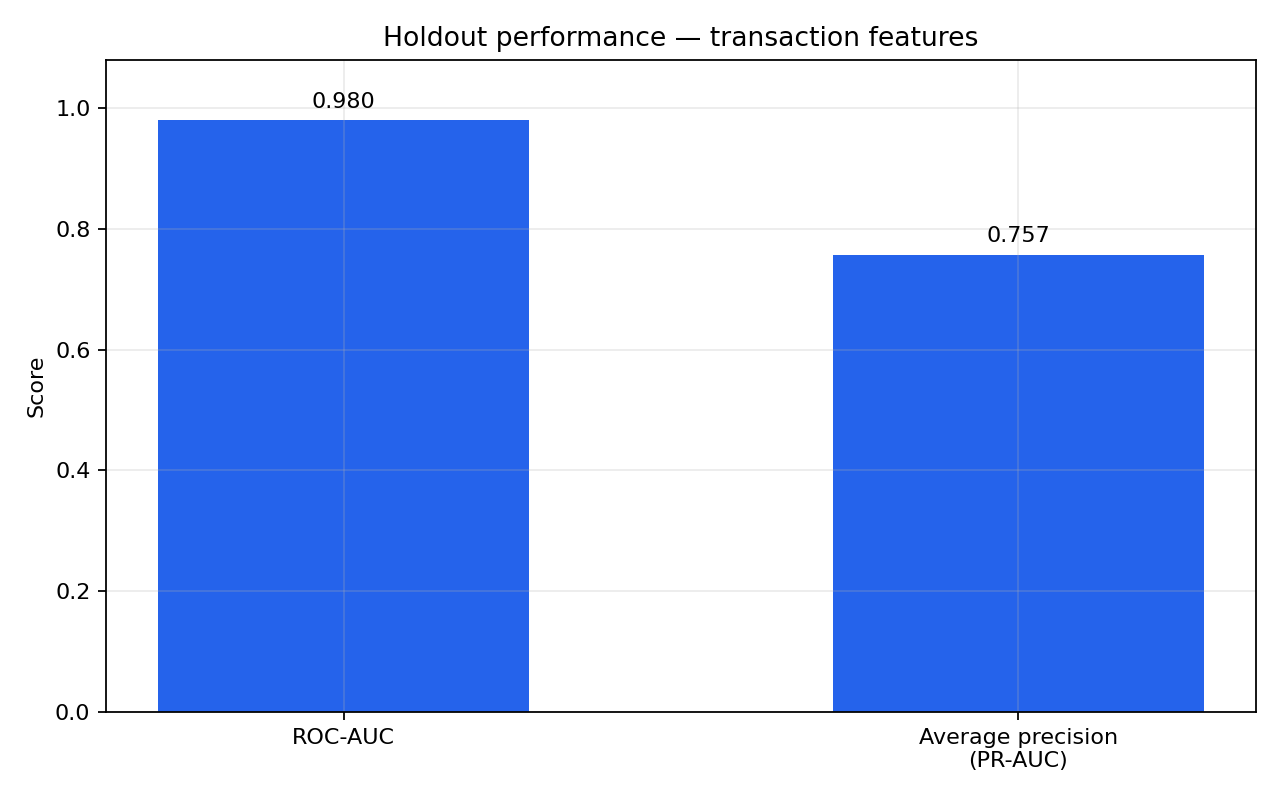
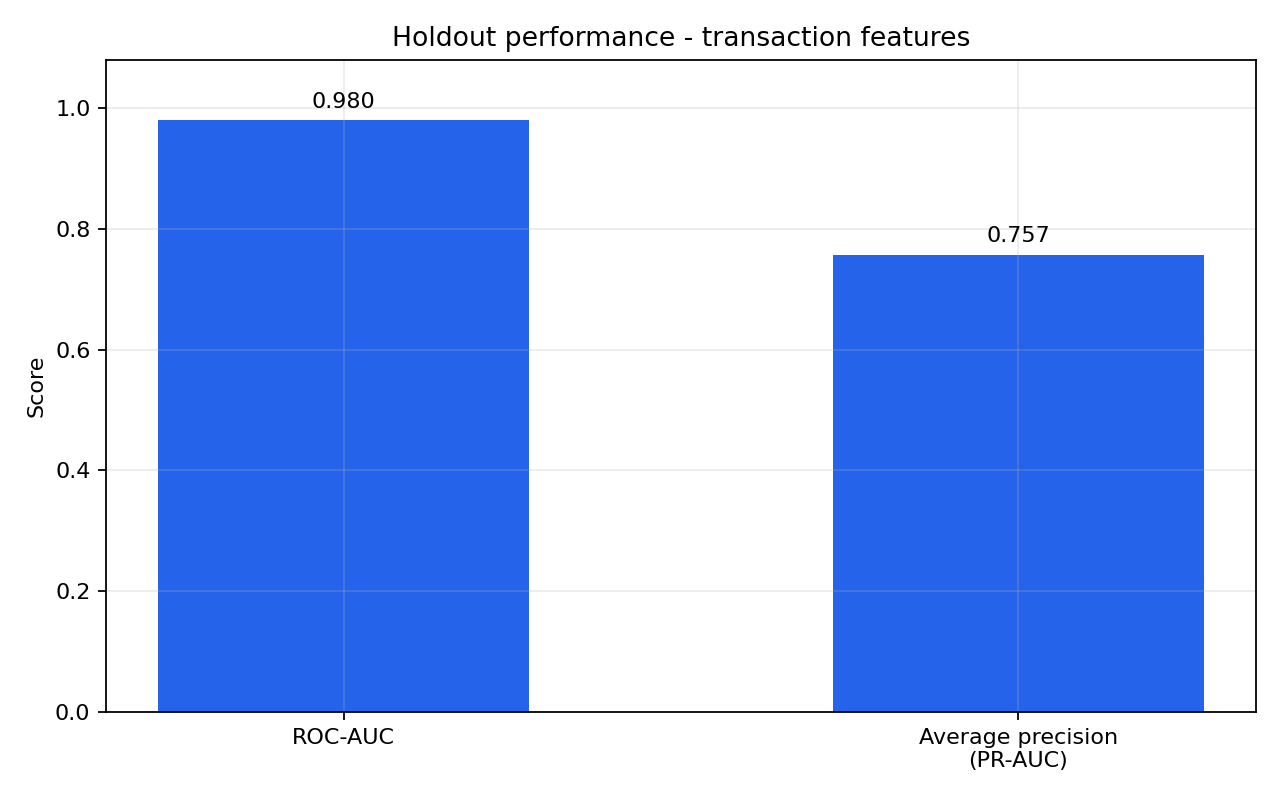
Polish fraud analysis reproducibility and reports

Changed region(s): [[0.2812, 0.0312, 0.7812, 0.0625]]

diff --git a/src/payment_fraud_pov/pipeline.py b/src/payment_fraud_pov/pipeline.py
@@ -1,8 +1,10 @@
-"""Temporal fraud POV comparing transaction-only and identity-enriched signals."""
+"""Train and evaluate a fraud scoring baseline on supported public datasets."""
 from __future__ import annotations
 
 import argparse
+import hashlib
 import json
+import platform
 from pathlib import Path
 
 import numpy as np
@@ -10,6 +12,7 @@ import pandas as pd
 import matplotlib
 matplotlib.use("Agg")
 import matplotlib.pyplot as plt
+import sklearn
 from sklearn.compose import ColumnTransformer
 from sklearn.impute import SimpleImputer
 from sklearn.linear_model import LogisticRegression
@@ -23,6 +26,15 @@ TARGET = "isFraud"
 JOIN_KEY = "TransactionID"
 TIME_KEY = "TransactionDT"
 DEFAULT_THRESHOLDS = (0.01, 0.02, 0.05, 0.10, 0.20, 0.50)
+
+
+def file_sha256(path: Path) -> str:
+    """Hash a source file without loading the entire file into memory."""
+    digest = hashlib.sha256()
+    with path.open("rb") as source:
+        for chunk in iter(lambda: source.read(1024 * 1024), b""):
+            digest.update(chunk)
+    return digest.hexdigest()
 
 
 def load_data(data_dir: Path) -> pd.DataFrame:
@@ -41,6 +53,7 @@ def load_data(data_dir: Path) -> pd.DataFrame:
         frame = frame.rename(columns={"fraud": TARGET})
         frame.attrs["dataset"] = "Kaggle Credit Card Fraud Detection (card_transdata)"
         frame.attrs["split"] = "stratified random 80/20 holdout (random_state=42)"
+        frame.attrs["source_files"] = [card_path]
         return frame
 
     transactions = pd.read_csv(transactions_path)
@@ -64,6 +77,10 @@ def load_data(data_dir: Path) -> pd.DataFrame:
     transactions.attrs["split"] = (
         "earliest 80% train; latest 20% holdout by TransactionDT boundary"
     )
+    transactions.attrs["source_files"] = [
+        transactions_path,
+        *([identity_path] if identity_path.exists() else []),
+    ]
     return transactions
 
 
@@ -154,23 +171,41 @@ def run(data_dir: Path, output_dir: Path, thresholds: tuple[float, ...]) -> None
     frame = load_data(data_dir)
     dataset_name = frame.attrs.get("dataset", "unknown")
     split_description = frame.attrs.get("split", "")
+    labels = pd.to_numeric(frame[TARGET], errors="raise")
+    if labels.isna().any() or not set(labels.unique()).issubset({0, 1}):
+        raise ValueError(f"{TARGET!r} must contain only non-missing binary 0/1 labels.")
+    frame[TARGET] = labels.astype(int)
+    if frame.empty:
+        raise ValueError("The selected dataset has no transaction rows.")
     if "TransactionDT" in frame:
         train, holdout = chronological_split(frame)
     else:
-        train, holdout = train_test_split(
-            frame, test_size=0.2, random_state=42,
-            stratify=frame[TARGET].astype(int),
-        )
+        try:
+            train, holdout = train_test_split(
+                frame, test_size=0.2, random_state=42,
+                stratify=frame[TARGET],
+            )
+        except ValueError as exc:
+            raise ValueError(
+                "Stratified holdout needs at least two rows in each label class."
+            ) from exc
     y_train = train[TARGET].astype(int).to_numpy()
     y_holdout = holdout[TARGET].astype(int).to_numpy()
     if np.unique(y_train).size < 2 or np.unique(y_holdout).size < 2:
         raise ValueError("Both temporal partitions must contain fraud and non-fraud cases.")
 
     model_rows, operating_rows = [], []
-    model_specs = (
-        (("transaction_only", False), ("transaction_plus_identity", True))
-        if "TransactionDT" in frame else (("transaction_features", False),)
-    )
+    identity_features = [
+        column for column in train.columns
+        if column.startswith("id_") and not train[column].isna().all()
+    ]
+    if "TransactionDT" in frame and identity_features:
+        model_specs = (("transaction_only", False),
+                       ("transaction_plus_identity", True))
+    elif "TransactionDT" in frame:
+        model_specs = (("transaction_only", False),)
+    else:
+        model_specs = (("transaction_features", False),)
     for name, use_identity in model_specs:
         columns = feature_columns(train, include_identity=use_identity)
         if not columns:
@@ -200,13 +235,29 @@ def run(data_dir: Path, output_dir: Path, thresholds: tuple[float, ...]) -> None
     pd.DataFrame(model_rows).to_csv(output_dir / "model_comparison.csv", index=False)
     pd.DataFrame(operating_rows).to_csv(output_dir / "operating_points.csv", index=False)
     write_plots(pd.DataFrame(model_rows), pd.DataFrame(operating_rows), output_dir)
+    source_hashes = {
+        source.name: file_sha256(source)
+        for source in frame.attrs.get("source_files", [])
+    }
     metadata = {
         "dataset": dataset_name,
+        "source_files_sha256": source_hashes,
         "split": split_description,
+        "train_rows": len(train),
+        "holdout_rows": len(holdout),
+        "holdout_fraud_rate": float(y_holdout.mean()),
+        "versions": {
+            "python": platform.python_version(),
+            "numpy": np.__version__,
+            "pandas": pd.__version__,
+            "scikit_learn": sklearn.__version__,
+            "matplotlib": matplotlib.__version__,
+        },
         "train_time_max": float(train[TIME_KEY].max()) if TIME_KEY in train else None,
         "holdout_time_min": float(holdout[TIME_KEY].min()) if TIME_KEY in holdout else None,
         "thresholds": list(thresholds),
-        "synthetic_or_customer_data": "card_transdata" in dataset_name.lower(),
+        "data_is_simulated": "card_transdata" in dataset_name.lower(),
+        "customer_data_used": False,
         "production_ready": False,
     }
     (output_dir / "run_metadata.json").write_text(
@@ -229,7 +280,7 @@ def write_plots(model_results: pd.DataFrame, operating_results: pd.DataFrame,
         ax.bar_label(bars, fmt="%.3f", padding=4)
         ax.set_ylim(0, 1.08)
         ax.set_ylabel("Score")
-        ax.set_title("Holdout performance — transaction features")
+        ax.set_title("Holdout performance - transaction features")
     else:
         for _, row in model_results.iterrows():
             ax.scatter(row["roc_auc"], row["average_precision_pr_auc"], s=110,
@@ -263,6 +314,21 @@ def write_plots(model_results: pd.DataFrame, operating_results: pd.DataFrame,
     fig.savefig(output_dir / "operating_points.png", dpi=160)
     plt.close(fig)
 
+    if len(model_results) == 1:
+        row = model_results.iloc[0]
+        fraud_count = round(row["holdout_rows"] * row["holdout_fraud_rate"])
+        counts = [row["holdout_rows"] - fraud_count, fraud_count]
+        fig, ax = plt.subplots(figsize=(7, 5))
+        bars = ax.bar(["Legitimate", "Fraud"], counts,
+                      color=["#2563eb", "#e4572e"], width=0.55)
+        ax.bar_label(bars, labels=[f"{int(n):,}" for n in counts], padding=4)
+        ax.set_ylabel("Transactions")
+        ax.set_title("Holdout class balance")
+        ax.grid(axis="y", alpha=0.25)
+        fig.tight_layout()
+        fig.savefig(output_dir / "class_balance.png", dpi=160)
+        plt.close(fig)
+
 
 def main() -> None:
     parser = argparse.ArgumentParser(description=__doc__)
@@ -273,8 +339,11 @@ def main() -> None:
         help="Score thresholds for the operating-point comparison.",
     )
     args = parser.parse_args()
-    if any(value < 0 or value > 1 for value in args.thresholds):
-        parser.error("Thresholds must be between 0 and 1.")
+    if any(not np.isfinite(value) or value < 0 or value > 1
+           for value in args.thresholds):
+        parser.error("Thresholds must be finite values between 0 and 1.")
+    if len(set(args.thresholds)) != len(args.thresholds):
+        parser.error("Thresholds must not contain duplicates.")
     run(args.data_dir, args.output_dir, tuple(args.thresholds))
 
 

diff --git a/README.md b/README.md
@@ -4,7 +4,7 @@ This project uses transaction behavior data to show how a fraud scoring model pe
 
 ## Dataset used
 
-The current run uses Kaggle's [Credit Card Fraud Detection dataset](https://www.kaggle.com/datasets/dhanushnarayanan/credit-card-fraud), file `card_transdata.csv`. Kaggle credentials were not available in this workspace, so the file was downloaded from this [public Hugging Face mirror](https://huggingface.co/datasets/arjund1999/CCFraud/blob/main/card_transdata.csv). The downloaded file is about 73 MB and lives in `data/raw/`. It is ignored by Git and is not uploaded to the project repository. See the Kaggle page for dataset terms and attribution.
+The current run uses Kaggle's [Credit Card Fraud Detection dataset](https://www.kaggle.com/datasets/dhanushnarayanan/credit-card-fraud), file `card_transdata.csv`. Kaggle credentials were not available in this workspace, so the file was downloaded from a [pinned public Hugging Face mirror revision](https://huggingface.co/datasets/arjund1999/CCFraud/blob/4beebe528117ddd470bd1b3a7286f91cd305ccc2/card_transdata.csv). It is about 73 MB. The raw file is ignored by Git and is not uploaded to the project repository. See the Kaggle page for dataset terms and attribution.
 
 The file contains seven feature columns and one target:
 
@@ -19,11 +19,27 @@ The file contains seven feature columns and one target:
 | `online_order` | Model feature |
 | `fraud` | Fraud label (the pipeline renames this internally to `isFraud`) |
 
-This dataset has no timestamp or separate identity table. The pipeline therefore uses a stratified random 80/20 train/holdout split with `random_state=42` and trains one transaction-feature model. The results are not a future-in-time evaluation and do not measure identity-signal lift. The pipeline also continues to support IEEE-CIS files if they are placed in `data/raw/` instead.
+This dataset has no timestamp or separate identity table. The pipeline therefore uses a stratified random 80/20 train/holdout split with `random_state=42` and trains one transaction-feature model. The results are not a future-in-time evaluation and do not measure identity-signal lift. The pipeline also supports IEEE-CIS files if those are placed in `data/raw/` instead; when both formats are present, it uses the IEEE-CIS transaction file.
+
+For this CSV, the seven behavior fields are median-imputed if needed, scaled, and passed to a class-weighted logistic-regression model. For IEEE-CIS input, categorical fields are one-hot encoded and the transaction-only and identity-enriched models are compared only when usable identity columns are present.
 
 ## Run the project
 
-Python 3.10 or newer is recommended. The dataset is already in `data/raw/card_transdata.csv` in this workspace. Set up the environment and run:
+Python 3.10 or newer is recommended. If you cloned the repository and do not have the CSV, download it from the public mirror first:
+
+```powershell
+# Windows PowerShell
+New-Item -ItemType Directory -Force data/raw | Out-Null
+Invoke-WebRequest -Uri 'https://huggingface.co/datasets/arjund1999/CCFraud/resolve/4beebe528117ddd470bd1b3a7286f91cd305ccc2/card_transdata.csv' -OutFile 'data/raw/card_transdata.csv'
+```
+
+```bash
+# macOS/Linux
+mkdir -p data/raw
+curl -L --fail -o data/raw/card_transdata.csv 'https://huggingface.co/datasets/arjund1999/CCFraud/resolve/4beebe528117ddd470bd1b3a7286f91cd305ccc2/card_transdata.csv'
+```
+
+Then set up the environment and run:
 
 ```bash
 python -m venv .venv
@@ -52,9 +68,10 @@ The run writes these files to `reports/`. They are kept in the repository so the
 | `operating_points.csv` | Precision, fraud capture, false-positive rate, legitimate approval rate, and flagged share at each threshold. |
 | `model_comparison.png` | A chart showing holdout ROC-AUC and PR-AUC. |
 | `operating_points.png` | A chart of fraud capture versus false-positive rate, with thresholds labeled. |
-| `run_metadata.json` | Dataset name, split method, thresholds, and non-production status. |
+| `class_balance.png` | Counts of legitimate and fraud rows in the holdout partition. |
+| `run_metadata.json` | Dataset name, input file hashes, split details, thresholds, package versions, and non-production status. |
 
-The PNGs are generated from the actual holdout results. Thresholds are exploratory examples, not recommendations; there is no separate validation set used to choose them. The pipeline does not save per-transaction predictions.
+The checked-in run uses 800,000 training rows and a 200,000-row holdout. Holdout PR-AUC is 0.7573 and ROC-AUC is 0.9795. These results describe this simulated benchmark and random split only. The model uses class-weighted logistic regression; its scores are not calibrated probabilities. Thresholds are exploratory examples, not recommendations, and there is no separate validation set used to choose them. The pipeline does not save per-transaction predictions.
 
 ## Other project materials
 

diff --git a/docs/data_and_artifacts.md b/docs/data_and_artifacts.md
@@ -2,11 +2,11 @@
 
 ## Dataset in this run
 
[2 lines of base64/hex data omitted]
 
 The CSV columns are `distance_from_home`, `distance_from_last_transaction`, `ratio_to_median_purchase_price`, `repeat_retailer`, `used_chip`, `used_pin_number`, `online_order`, and `fraud`. The seven behavior columns are model features. `fraud` is the binary target; the pipeline renames it to `isFraud` internally.
 
-There is no event timestamp or separate identity table in this source. The pipeline uses a stratified random 80/20 train/holdout split with `random_state=42` and trains one transaction-feature model. These results are not a temporal evaluation and do not establish the value of identity signals.
+There is no event timestamp or separate identity table in this source. The pipeline uses a stratified random 80/20 train/holdout split with `random_state=42` and trains one transaction-feature model. The checked-in run has 800,000 training rows, 200,000 holdout rows, 8.7405% holdout fraud prevalence, 0.7573 average precision, and 0.9795 ROC-AUC. These results are not a temporal evaluation and do not establish the value of identity signals.
 
 The downloaded file is stored at `data/raw/card_transdata.csv`. Raw data is ignored by Git and has not been uploaded to the repository. This avoids redistributing it without confirming the Kaggle dataset's terms. Generated CSV/JSON summaries and PNG charts in `reports/` are tracked with the project.
 
@@ -18,7 +18,8 @@ Running the command in the main README writes these files to `reports/`:
 - `operating_points.csv`: precision, fraud capture, false-positive rate, legitimate approval rate, and flagged share at each threshold.
 - `model_comparison.png`: holdout ROC-AUC and PR-AUC visualization.
 - `operating_points.png`: fraud capture against false-positive rate, with thresholds labeled.
-- `run_metadata.json`: dataset, split method, configured thresholds, and non-production status.
+- `class_balance.png`: legitimate and fraud counts in the holdout set.
+- `run_metadata.json`: dataset, source file SHA-256, split method, sample counts, holdout fraud rate, configured thresholds, software versions, and explicit simulated-data/customer-data/production flags.
 
 The PNGs are generated from the downloaded dataset's measured holdout results. The pipeline does not save per-transaction predictions.
 
